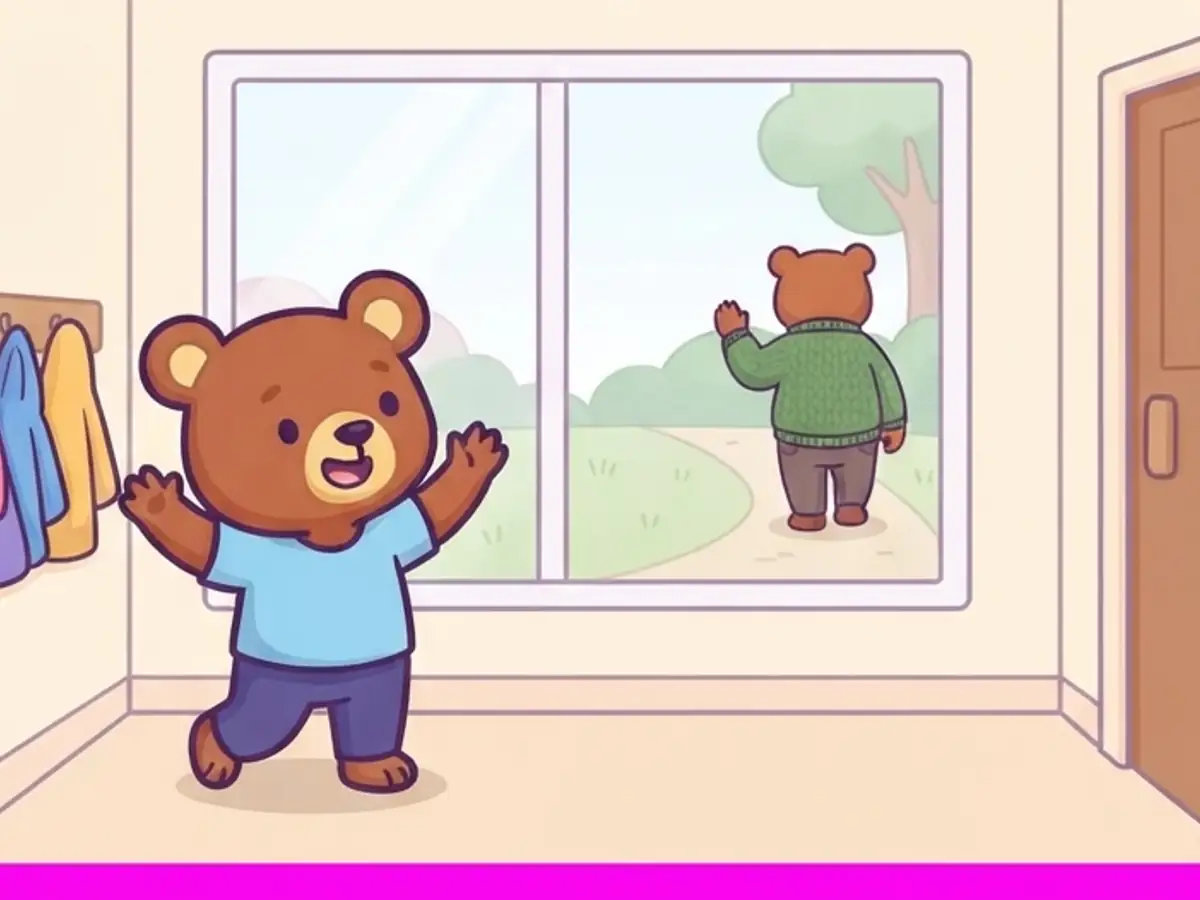
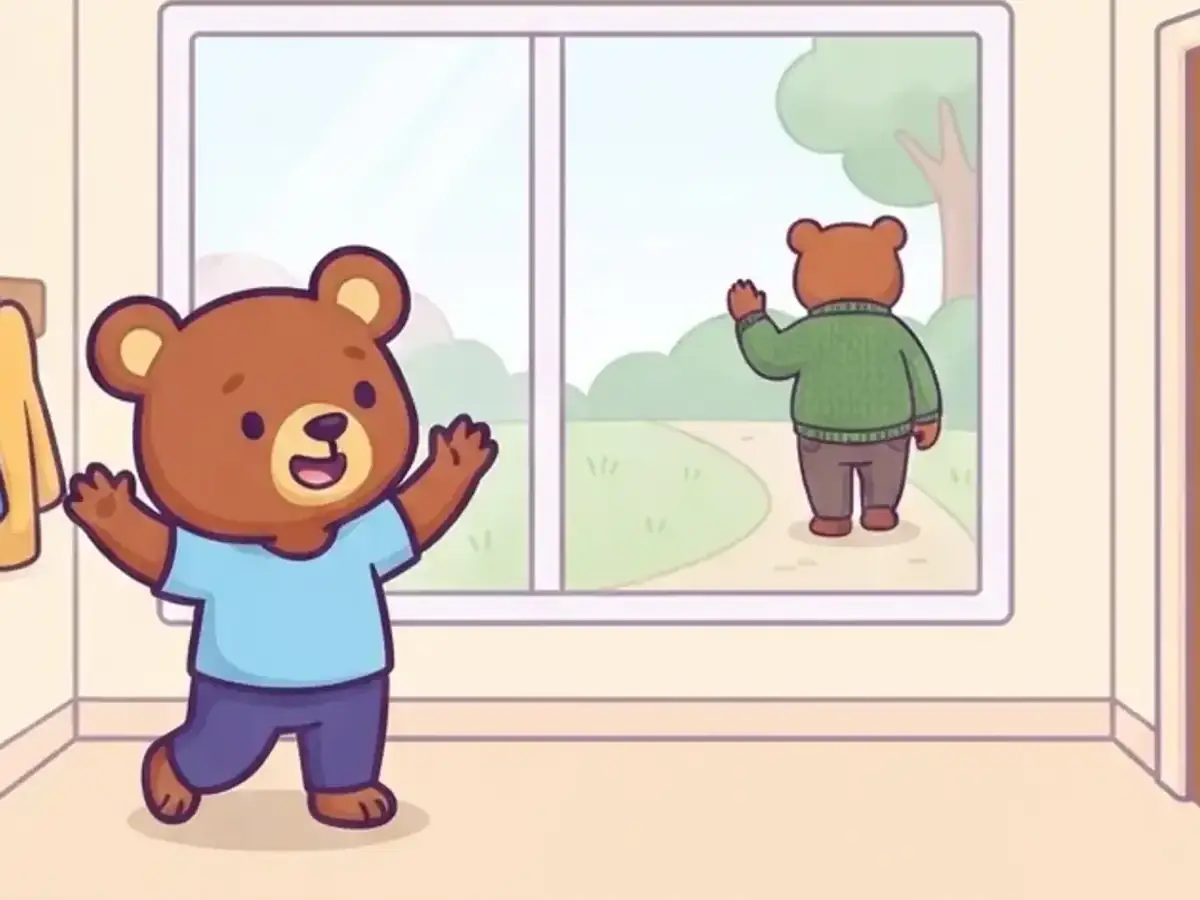
Gefühle: trim seam stripes off new pictures, one frame where the second one jumped

diff --git a/src/games/feelings/bilder/README.md b/src/games/feelings/bilder/README.md
@@ -165,6 +165,12 @@ visible, but gentle – no injuries, no blood. Use the reference only for the ch
 | `angry-3`        | „Sagen“ – The little bear tells the fox how he feels, one paw on his chest. The fox looks sorry and starts to rebuild the tower with him.                                     |
 | `angry-nein`     | „Schubsen“ – The angry little bear pushes the fox. The fox falls on the floor and cries.                                                                                      |
 
+Bei den vier Geschichten unten haben nur einen Frame, weil im zweiten die Szene
+sprang statt sich nur ein wenig zu bewegen: `bye-passiert`, `bye-3`, `bye-nein`,
+`new-passiert`, `new-nein`, `new-ende`, `fall-3`, `fall-ende`, `stop-1`, `stop-nein`.
+Ein Paar aus `--grid 1x2` darum vor dem Einbauen nebeneinander ansehen; Streifen
+der Trennfarbe am Rand beider Frames gleich wegschneiden, damit sie deckungsgleich bleiben.
+
 ### Abschied an der Tür (`bye`) – Eingang mit Garderobe, Tür und Fenster
 
 | Datei          | Prompt                                                                                                                                                                     |
